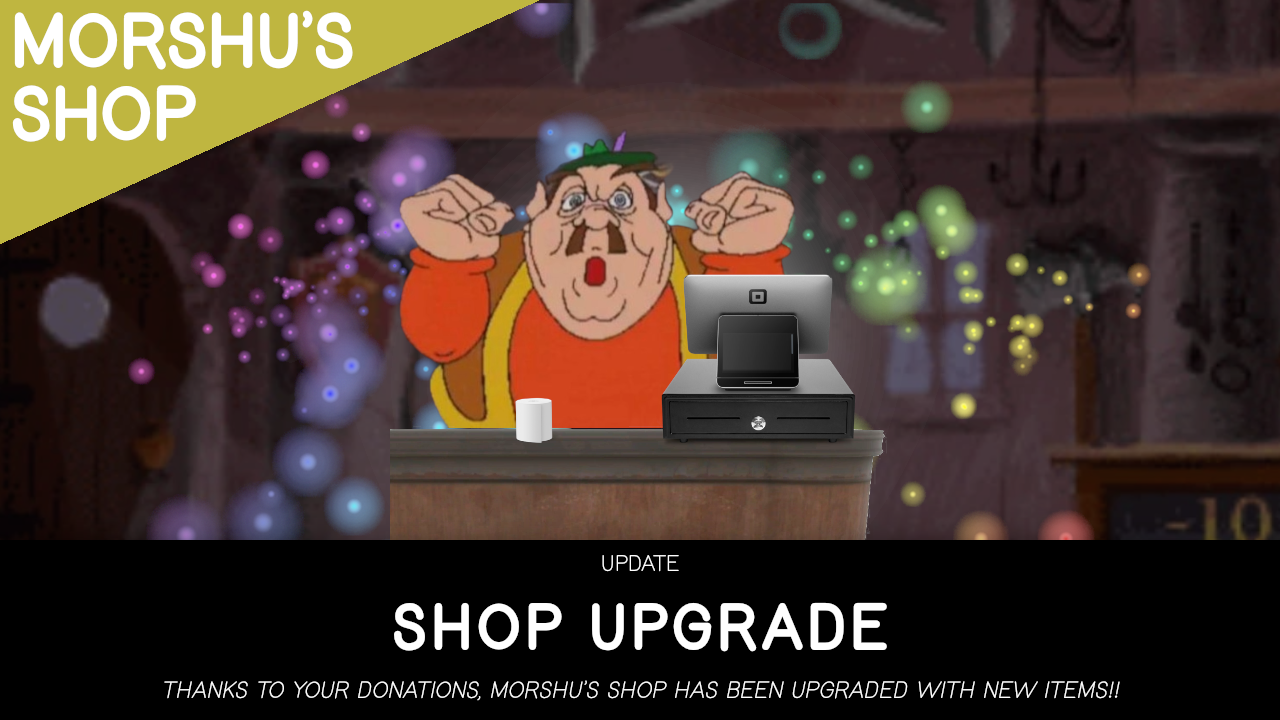
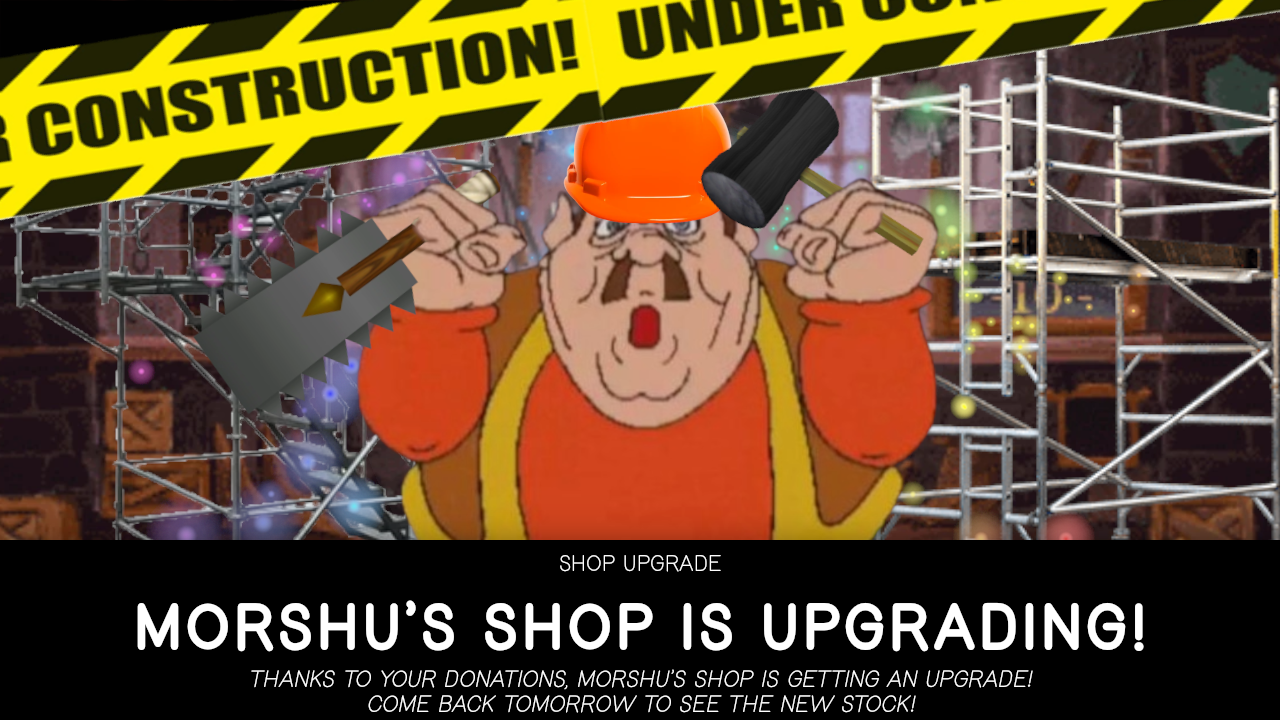
- created dropdown for item inventory instead of button - item inventory now displays items for the particular section
- added max_shop_level to game state
- separated morshu shop upgrade for only when shops are actually in the process of upgrading
- added batteries to morshu image when L2

diff --git a/src/discord/game_features/item_inventory/ItemInventoryView.py b/src/discord/game_features/item_inventory/ItemInventoryView.py
@@ -20,10 +20,12 @@ class ItemInventoryView(BaseView):
         self.selected_item = None
 
         # DEFINE VIEW COMPONENTS
-        self.item_select_dropdown = self.create_items_dropdown(row=0)
-        self.use_item_button = self.create_use_item_button(row=1)
-        self.use_item_confirm_button = self.create_use_item_confirm_button(row=1)
-        self.inventory_section_toggle_button = self.create_inventory_section_toggle_button(row=1)
+        self.inventory_section_dropdown = self.create_inventory_section_dropdown(row=0)
+        self.item_select_dropdown = self.create_items_dropdown(row=1)
+
+        self.use_item_button = self.create_use_item_button(row=2)
+        self.use_item_confirm_button = self.create_use_item_confirm_button(row=2)
+        self.inventory_section_toggle_button = self.create_inventory_section_toggle_button(row=2)
 
         self.refresh_view()
 
@@ -66,8 +68,7 @@ class ItemInventoryView(BaseView):
         return callback
 
     def create_inventory_section_toggle_button(self, row=1):
-        button = discord.ui.Button(label=f"{ITEM_INVENTORY_ICON_ORDER_MAP.get(self.image_factory.active_tab)}", style=discord.ButtonStyle.blurple, row=row)
-
+        button = discord.ui.Button(label=f"{ITEM_INVENTORY_TABS.get(self.image_factory.active_tab).get("label")}", style=discord.ButtonStyle.blurple, row=row)
         button.callback = self.inventory_section_toggle_callback()
         return button
     def inventory_section_toggle_callback(self, ):
@@ -82,10 +83,31 @@ class ItemInventoryView(BaseView):
 
         return callback
 
-
     # CREATE DROPDOWNS
+    def create_inventory_section_dropdown(self, row=1):
+        options = [discord.SelectOption(label=data["label"], value=tab_id) for tab_id, data in ITEM_INVENTORY_TABS.items()]
+        placeholder_label = ITEM_INVENTORY_TABS.get(self.image_factory.active_tab, {}).get("label", "Section")
+        dropdown = Select(placeholder=f"Section -> {placeholder_label}", options=options, min_values=1, max_values=1, row=row)
+        dropdown.callback = self.inventory_section_dropdown_callback
+        return dropdown
+
+    async def inventory_section_dropdown_callback(self, interaction: discord.Interaction):
+        selected_tab_id = interaction.data["values"][0]  # this is the short id (e.g. "bait")
+        # update active tab using the short id
+        old_tab = self.image_factory.active_tab
+        if selected_tab_id != old_tab:
+            self.image_factory.active_tab = selected_tab_id
+            new_page_number = 1
+            self.page_num = new_page_number
+            self.image_factory.page_num = new_page_number
+
+        reloaded_image = self.reload_image(active_tab=selected_tab_id)
+        self.refresh_view()
+        await interaction.response.edit_message(content=None, attachments=[reloaded_image], view=self)
+
+
     def create_items_dropdown(self, row=1):
-        options = [discord.SelectOption(label=f"{item.item_name} - ({item.item_quantity} left)", value=item.item_id) for item in self.image_factory.user_items[0:min(24, len(self.image_factory.user_items))]]
+        options = [discord.SelectOption(label=f"{item.item_name} - ({item.item_quantity} left)", value=item.item_id) for item in self.image_factory.active_items[0:min(24, len(self.image_factory.active_items))]]
         dropdown = Select(placeholder="Select Item to Use", options=options, min_values=1, max_values=1, row=row)
         dropdown.callback = self.items_dropdown_callback
         return dropdown
@@ -102,13 +124,20 @@ class ItemInventoryView(BaseView):
         self.update_button_states()
         self.rebuild_view()
     def update_button_states(self):
+        # update labels
         self.inventory_section_toggle_button.label = f"{ITEM_INVENTORY_ICON_ORDER_MAP.get(self.image_factory.active_tab)}"
+        self.inventory_section_dropdown.placeholder =f"🎒Open Section -> {ITEM_INVENTORY_TABS.get(self.image_factory.active_tab, {}).get("label", "")}"
+
+        # update the item select dropdown to reflect the current items
+        self.item_select_dropdown = self.create_items_dropdown(row=1)
         pass
     def rebuild_view(self):
         super().rebuild_view()
 
         if len(self.image_factory.user_items) > 0 and self.target_user.user_id == self.message_author.user_id:
+            self.add_item(self.inventory_section_dropdown)
             self.add_item(self.item_select_dropdown)
+
             self.add_item(self.use_item_button)
             self.add_item(self.inventory_section_toggle_button)
 

diff --git a/src/discord/game_features/item_inventory/ItemInventoryImageFactory.py b/src/discord/game_features/item_inventory/ItemInventoryImageFactory.py
@@ -4,17 +4,17 @@ from src.commons.CommonFunctions import resize_text_to_fit, add_border_to_image,
 from src.database.handlers.DatabaseHandler import get_tgommo_db_handler
 from src.discord.game_features.item_inventory.ItemInventoryIconImageFactory import ItemInventoryIconImageFactory
 from src.discord.general.template.BaseImageFactory import BaseImageFactory
-from src.resources.constants.TGO_MMO_constants import FONT_COLOR_WHITE, ITEM_INVENTORY_EXCLUDED_ITEM_TYPES, ITEM_INVENTORY_ICON_ORDER_MAP
+from src.resources.constants.TGO_MMO_constants import FONT_COLOR_WHITE, ITEM_INVENTORY_EXCLUDED_ITEM_TYPES, ITEM_INVENTORY_TABS
 from src.resources.constants.file_paths import *
 
 
 class ItemInventoryImageFactory(BaseImageFactory):
     def __init__(self, message_author, target_user):
         super().__init__(message_author=message_author, target_user=target_user)
-        self.active_tab = next(iter(ITEM_INVENTORY_ICON_ORDER_MAP))
+        self.active_tab = next(iter(ITEM_INVENTORY_TABS.keys())) # Set the first tab as the default active tab
 
         self.user_items = [item for item in get_tgommo_db_handler().get_inventory_item_collection_by_user_id(user_id=self.target_user.user_id, convert_to_object=True) if item.item_quantity > 0 and item.item_type not in ITEM_INVENTORY_EXCLUDED_ITEM_TYPES]
-        self.active_items = [item for item in self.user_items if item.item_type in  ITEM_INVENTORY_ICON_ORDER_MAP.get(self.active_tab)]
+        self.active_items = [item for item in self.user_items if item.item_type in  ITEM_INVENTORY_TABS.get(self.active_tab).get("item_types")]
 
         self.user_item_icons = self.build_item_icons()
 
@@ -30,7 +30,7 @@ class ItemInventoryImageFactory(BaseImageFactory):
         super().load_relevant_info(target_user=target_user, new_page_number=new_page_number)
         if active_tab:
             self.active_tab = active_tab if active_tab else self.active_tab
-            self.active_items = [item for item in self.user_items if item.item_type in ITEM_INVENTORY_ICON_ORDER_MAP.get(self.active_tab)]
+            self.active_items = [item for item in self.user_items if item.item_type in ITEM_INVENTORY_TABS.get(self.active_tab).get("item_types")]
 
         data_changed = any(param is not None for param in [target_user])
         if data_changed:
@@ -41,10 +41,8 @@ class ItemInventoryImageFactory(BaseImageFactory):
         item_inventory_image = Image.open(ITEM_INVENTORY_BG_IMAGE)
         item_inventory_overlay = Image.open(ITEM_INVENTORY_CORNER_OVERLAY_IMAGE)
 
-
         active_item_icons = [self.user_item_icons[i] for i in  [i for i, item in enumerate(self.user_items) if item.item_id in {item.item_id for item in self.active_items}]]
         item_grid_img = self.build_grid(icons=active_item_icons, grid_size=(1512, 700), icons_per_page=20, icon_size=(500, 70), icons_per_row=3, horizontal_padding=6, vertical_padding=3)
-
 
         item_inventory_image.paste(item_grid_img, (216, 270), item_grid_img)
         item_inventory_image.paste(item_inventory_overlay, (0, 0), item_inventory_overlay)
@@ -92,11 +90,14 @@ class ItemInventoryImageFactory(BaseImageFactory):
 
     def get_inventory_categories_grid(self, image: Image):
         icons = []
-        for icon in ITEM_INVENTORY_ICON_ORDER_MAP.keys():
-            icon_image = Image.open(icon)
+
+        for i in range(len(ITEM_INVENTORY_TABS)):
+            icon_key = list(ITEM_INVENTORY_TABS.keys())[i]
+            icon_info = ITEM_INVENTORY_TABS[icon_key]
+            icon_image = Image.open(icon_info.get("icon"))
 
             # reduce opacity to 35%
-            if icon != self.active_tab:
+            if icon_key != self.active_tab:
                 r, g, b, a = icon_image.split()
                 a = a.point(lambda p: int(p * 0.65))
                 icon_image.putalpha(a)
@@ -109,3 +110,6 @@ class ItemInventoryImageFactory(BaseImageFactory):
         item_icons_grid = self.build_grid(icons=icons, grid_size=(icon_grid_max_width, 114), icons_per_page=20, icon_size=(icon_dimensions, icon_dimensions), icons_per_row=15, horizontal_padding=icon_grid_padding, vertical_padding=3)
         centered_image_position_x, centered_image_position_y = get_centered_image_position(foreground_image=item_icons_grid, background_image=image)
         return item_icons_grid, (centered_image_position_x, 116)
+
+    def refresh_active_items(self):
+        self.active_items = [item for item in self.user_items if item.item_type in ITEM_INVENTORY_TABS.get(self.active_tab).get("item_types")]

diff --git a/src/discord/game_features/shop/ShopImageFactory.py b/src/discord/game_features/shop/ShopImageFactory.py
@@ -16,23 +16,33 @@ class ShopImageFactory(BaseImageFactory):
         self.load_relevant_info()
 
     def build_image(self):
+        # build base shop image
         shop_image = Image.open(SHOP_BG_IMAGE)
-        corner_overlay_image = Image.open(SHOP_CORNER_OVERLAY_IMAGE)
         currency_overlay_image = Image.open(SHOP_CURRENCY_OVERLAY_IMAGE)
-        morshu_overlay_image = Image.open(SHOP_MORSHU_OVERLAY_IMAGE)
         top_shelf_image = Image.open(SHOP_TOP_SHELF_IMAGE)
         bottom_shelf_image = Image.open(SHOP_BOTTOM_SHELF_IMAGE)
 
+        # build shelves and place inventory on image
         shop_image.paste(top_shelf_image, (0, 0), top_shelf_image)
         shop_image.paste(bottom_shelf_image, (0, 0), bottom_shelf_image)
-
         self.place_shop_inventory_on_image(shop_image=shop_image)
 
+        # build morshu section
+        morshu_overlay_image = Image.open(SHOP_MORSHU_OVERLAY_IMAGE)
         shop_image.paste(morshu_overlay_image, (0, 0), morshu_overlay_image)
+        if get_game_state_manager().get_shop_level() == 2:
+            battery_overlay_image = Image.open(SHOP_BATTERY_BASKET_IMAGE)
+            shop_image.paste(battery_overlay_image, (0, 0), battery_overlay_image)
+        if get_game_state_manager().get_shop_upgrade_in_progress():
+            upgrade_overlay_image = Image.open(SHOP_UPGRADE_SIGN_IMAGE)
+            shop_image.paste(upgrade_overlay_image, (0, 0), upgrade_overlay_image)
 
+        # add currency overlay to image
         shop_image.paste(currency_overlay_image, (0, 0), currency_overlay_image)
         self.add_text_to_image(shop_image)
 
+        # add corner overlay to image
+        corner_overlay_image = Image.open(SHOP_CORNER_OVERLAY_IMAGE)
         shop_image.paste(corner_overlay_image, (0, 0), corner_overlay_image)
 
         return shop_image
@@ -60,10 +70,11 @@ class ShopImageFactory(BaseImageFactory):
         draw.text(get_centered_text_position(text=f"{self.message_author.currency}", font=font, center_pixel_location=(1686, 62)), f"{self.message_author.currency}", fill=FONT_COLOR_BLACK, font=font)
 
         # ADD CURRENT DONATION & DONATION GOAL TO IMAGE
-        donation_amount = f"{get_game_state_manager().get_shop_donation_total()}"
-        donation_goal = f"{SHOP_LEVEL_COST_MAP[get_game_state_manager().get_shop_level()]}"
+        if get_game_state_manager().get_shop_upgrade_in_progress():
+            donation_amount = f"{get_game_state_manager().get_shop_donation_total()}"
+            donation_goal = f"{SHOP_LEVEL_COST_MAP[get_game_state_manager().get_shop_level()]}"
 
-        donation_font = resize_text_to_fit(text=donation_goal, draw=draw, font=ImageFont.truetype(FONT_FOREST_REGULAR_FILE, 40), max_width=120, min_font_size=7)
+            donation_font = resize_text_to_fit(text=donation_goal, draw=draw, font=ImageFont.truetype(FONT_FOREST_REGULAR_FILE, 40), max_width=120, min_font_size=7)
 
-        draw.text(get_centered_text_position(text=donation_amount, font=donation_font, center_pixel_location=(272, 972)), donation_amount, fill=FONT_COLOR_WHITE, font=donation_font)
-        draw.text(get_centered_text_position(text=donation_goal, font=donation_font, center_pixel_location=(672, 972)), donation_goal, fill=FONT_COLOR_WHITE, font=donation_font)
+            draw.text(get_centered_text_position(text=donation_amount, font=donation_font, center_pixel_location=(272, 972)), donation_amount, fill=FONT_COLOR_WHITE, font=donation_font)
+            draw.text(get_centered_text_position(text=donation_goal, font=donation_font, center_pixel_location=(672, 972)), donation_goal, fill=FONT_COLOR_WHITE, font=donation_font)

diff --git a/src/resources/constants/TGO_MMO_constants.py b/src/resources/constants/TGO_MMO_constants.py
@@ -319,24 +319,46 @@ CREATURE_INVENTORY_MODE_RELEASE_RESULTS = "Release Results"
 # endregion
 
 """ ----- ITEM INVENTORY  ---------------------------------------------------------------------------------------------------------------------------------------------------------------------------------------------------------------------------------------------------------------------------------------------------------------------"""
-ITEM_INVENTORY_EXCLUDED_ITEM_TYPES = [ITEM_TYPE_GAMEPLAY_MECHANICS, ITEM_TYPE_MEGAPHONE, ITEM_TYPE_PEARL]
+ITEM_INVENTORY_EXCLUDED_ITEM_TYPES = [ITEM_TYPE_GAMEPLAY_MECHANICS, ITEM_TYPE_MEGAPHONE]
 
-ITEM_INVENTORY_ICON_ORDER_MAP = {
-    ITEM_INVENTORY_ICON_BAIT_IMAGE: [ITEM_TYPE_BAIT],
-    ITEM_INVENTORY_ICON_CHARM_IMAGE: [ITEM_TYPE_CHARM, ITEM_TYPE_ULTRA_CHARM],
-    ITEM_INVENTORY_ICON_ANIMAL_IMAGE: [ITEM_TYPE_PEARL],
-    ITEM_INVENTORY_ICON_MISC_ITEM_IMAGE: [ITEM_TYPE_NAMETAG, ITEM_TYPE_AMULET_COIN, ITEM_TYPE_PLANE_TICKET],
-    ITEM_INVENTORY_ICON_KEY_ITEM_IMAGE: [ITEM_TYPE_MEGAPHONE, ITEM_TYPE_TRAP, ITEM_TYPE_BATTERY],
-
-    # ITEM_INVENTORY_ICON_MEGAPHONE_IMAGE: ["megaphone"],
-    # ITEM_INVENTORY_ICON_TRAP_IMAGE: ["trap"],
+# python
+# Add to src/resources/constants/TGO_MMO_constants.py
+ITEM_INVENTORY_TABS = {
+    "bait": {
+        "icon": ITEM_INVENTORY_ICON_BAIT_IMAGE,
+        "label": "Bait",
+        "item_types": [ITEM_TYPE_BAIT],
+    },
+    "charms": {
+        "icon": ITEM_INVENTORY_ICON_CHARM_IMAGE,
+        "label": "Charms",
+        "item_types": [ITEM_TYPE_CHARM, ITEM_TYPE_ULTRA_CHARM],
+    },
+    "creature_drops": {
+        "icon": ITEM_INVENTORY_ICON_ANIMAL_IMAGE,
+        "label": "Creature Drops",
+        "item_types": [ITEM_TYPE_PEARL],
+    },
+    "misc": {
+        "icon": ITEM_INVENTORY_ICON_MISC_ITEM_IMAGE,
+        "label": "Miscellaneous",
+        "item_types": [ITEM_TYPE_NAMETAG, ITEM_TYPE_AMULET_COIN, ITEM_TYPE_PLANE_TICKET],
+    },
+    "key_items": {
+        "icon": ITEM_INVENTORY_ICON_KEY_ITEM_IMAGE,
+        "label": "Key Items",
+        "item_types": [ITEM_TYPE_MEGAPHONE, ITEM_TYPE_TRAP, ITEM_TYPE_BATTERY],
+    },
 }
+
+# Backwards-compatible derived maps (optional — remove old maps once migrated)
+ITEM_INVENTORY_ICON_ORDER_MAP = {v["icon"]: v["item_types"] for v in ITEM_INVENTORY_TABS.values()}
 
 """ ----- SHOP  ---------------------------------------------------------------------------------------------------------------------------------------------------------------------------------------------------------------------------------------------------------------------------------------------------------------------"""
 SHOP_LEVEL_COST_MAP = {
-    1: 2500,
-    2: 5000,
-    3: 5000,
+    1: 5000,
+    2: 10000,
+    # 3: 5000,
 }
 
 """ ----- TRAP MANAGER  ---------------------------------------------------------------------------------------------------------------------------------------------------------------------------------------------------------------------------------------------------------------------------------------------------------------------"""

diff --git a/src/discord/game_features/shop/ShopItemImageFactory.py b/src/discord/game_features/shop/ShopItemImageFactory.py
@@ -2,7 +2,8 @@ import random
 
 from PIL import Image, ImageDraw, ImageFont
 
-from src.commons.CommonFunctions import resize_text_to_fit, get_centered_text_position, get_centered_image_position
+from src.commons.CommonFunctions import resize_text_to_fit, get_centered_text_position, get_centered_image_position, \
+    resize_text_to_fit_newline
 from src.discord.objects.TGOAvatar import TGOAvatar
 from src.discord.objects.TGOPlayerItem import TGOPlayerItem
 from src.resources.constants.file_paths import *
@@ -45,7 +46,7 @@ class ShopItemImageFactory:
 
         # ADD NAME TO IMAGE
         name = self.avatar.name if self.is_shop_item_avatar else self.item.item_name
-        font = resize_text_to_fit(text=name, draw=draw, font=ImageFont.truetype(FONT_FOREST_BOLD_FILE_TEMP, 28), max_width=220, min_font_size=7)
-        draw.text(get_centered_text_position(text=name, font=font, center_pixel_location=(332, 137)), name, fill=(0, 0, 0), font=font)
+        font, wrapped_text = resize_text_to_fit_newline(text=name, draw=draw, font=ImageFont.truetype(FONT_FOREST_BOLD_FILE_TEMP, 28), max_width=180, min_font_size=7, allow_newlines=True, max_lines=3)
+        draw.text(get_centered_text_position(text=wrapped_text, font=font, center_pixel_location=(332, 137)), name, fill=(0, 0, 0), font=font)
         return image
 

diff --git a/src/discord/game_features/shop/ShopView.py b/src/discord/game_features/shop/ShopView.py
@@ -1,5 +1,5 @@
 from src.commons.CommonDecorators import interaction_guard
-from src.commons.GameStateManager import get_game_state_manager
+from src.commons.GameStateManager import get_game_state_manager, game_state_manager
 from src.discord.game_features.player_profile.PlayerProfileImageFactory import *
 from src.discord.game_features.shop.ShopImageFactory import ShopImageFactory
 from src.discord.general.template.BaseView import BaseView
@@ -231,7 +231,11 @@ class DonationModal(discord.ui.Modal):
         gsm.set_shop_donation_total(donation_total)
 
         if leveled_up:
+            # Set the shop upgrade in progress flag if the new level is less than the max level
+            gsm.set_shop_upgrade_in_progress(gsm.get_max_shop_level() > new_level)
+
             await interaction.followup.send(f"Thank you for your donation of {amount}💰! The shop has leveled up to Level {new_level}! New items may be available, so be sure to check back!",ephemeral=True)
+            await interaction.followup.send(f"🎉 The shop has leveled up to Level {new_level}! 🎉", files=[convert_to_png(Image.open(SHOP_UPDATE_UPGRADE_IMAGE), file_name="shop_upgrade.png")], ephemeral=False)
 
         # Refresh the parent view image
         if self.original_message:

diff --git a/src/commons/GameStateManager.py b/src/commons/GameStateManager.py
@@ -124,6 +124,13 @@ class GameStateManager:
         """Return the saved shop level (defaults to 1)."""
         state = self._load_state()
         return state.get("shop_level", 1)
+    def get_max_shop_level(self) -> int:
+        """Return the maximum shop level (defaults to 3)."""
+        state = self._load_state()
+        return state.get("max_shop_level", 3)
+    def get_shop_upgrade_in_progress(self):
+        state = self._load_state()
+        return state.get("shop_upgrade_in_progress", False) == 1
     def get_shop_donation_total(self) -> int:
         """Return the saved shop donation total (defaults to 0)."""
         state = self._load_state()
@@ -180,6 +187,10 @@ class GameStateManager:
     def set_shop_level(self, new_level: int):
         state = self._load_state()
         state["shop_level"] = new_level
+        self._save_state(state)
+    def set_shop_upgrade_in_progress(self, in_progress):
+        state = self._load_state()
+        state["shop_upgrade_in_progress"] = 1 if in_progress else 0
         self._save_state(state)
     def set_shop_donation_total(self, new_total: int):
         """Set and persist the shop donation total."""

diff --git a/src/resources/constants/file_paths.py b/src/resources/constants/file_paths.py
@@ -375,6 +375,9 @@ SHOP_CORNER_OVERLAY_IMAGE = SHOP_BASE + "_CornerOverlay" + IMAGE_FILE_EXTENSION
 SHOP_CURRENCY_OVERLAY_IMAGE = SHOP_BASE + "_CurrencyOverlay" + IMAGE_FILE_EXTENSION
 
 SHOP_MORSHU_OVERLAY_IMAGE = SHOP_BASE + "_MorshuOverlay" + IMAGE_FILE_EXTENSION
+SHOP_BATTERY_BASKET_IMAGE = SHOP_BASE + "_BatteryBasket" + IMAGE_FILE_EXTENSION
+SHOP_UPGRADE_SIGN_IMAGE = SHOP_BASE + "_UpgradeSign" + IMAGE_FILE_EXTENSION
+
 SHOP_TOP_SHELF_IMAGE = SHOP_SHELF_BASE + "_Top" + IMAGE_FILE_EXTENSION
 SHOP_BOTTOM_SHELF_IMAGE = SHOP_SHELF_BASE + "_Bottom" + IMAGE_FILE_EXTENSION
 
